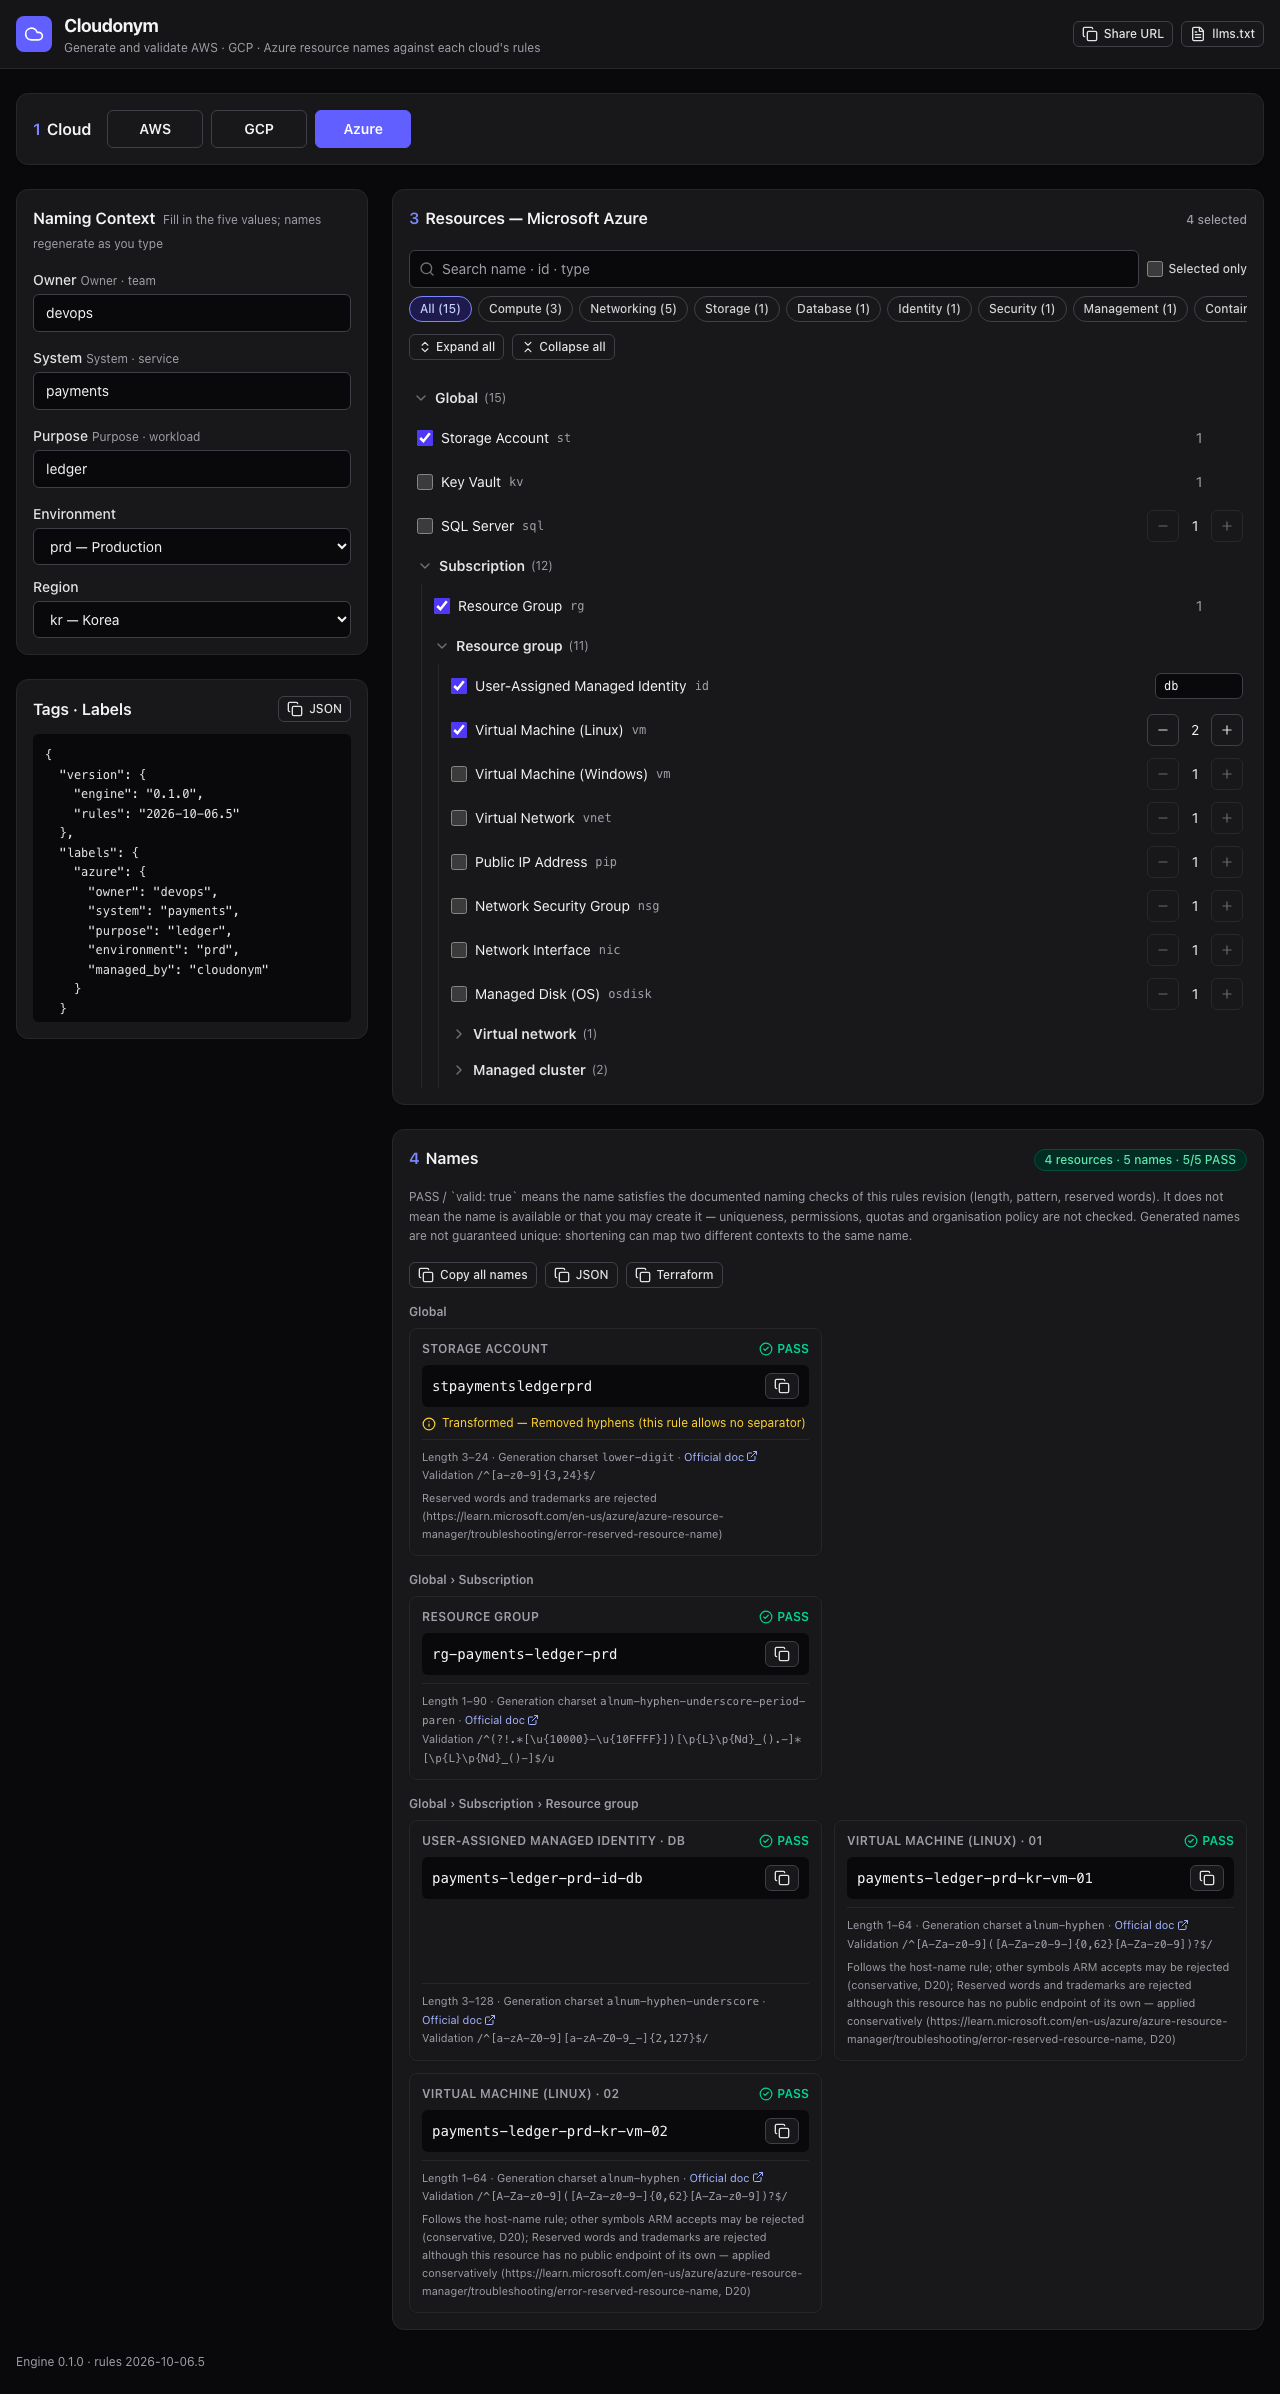
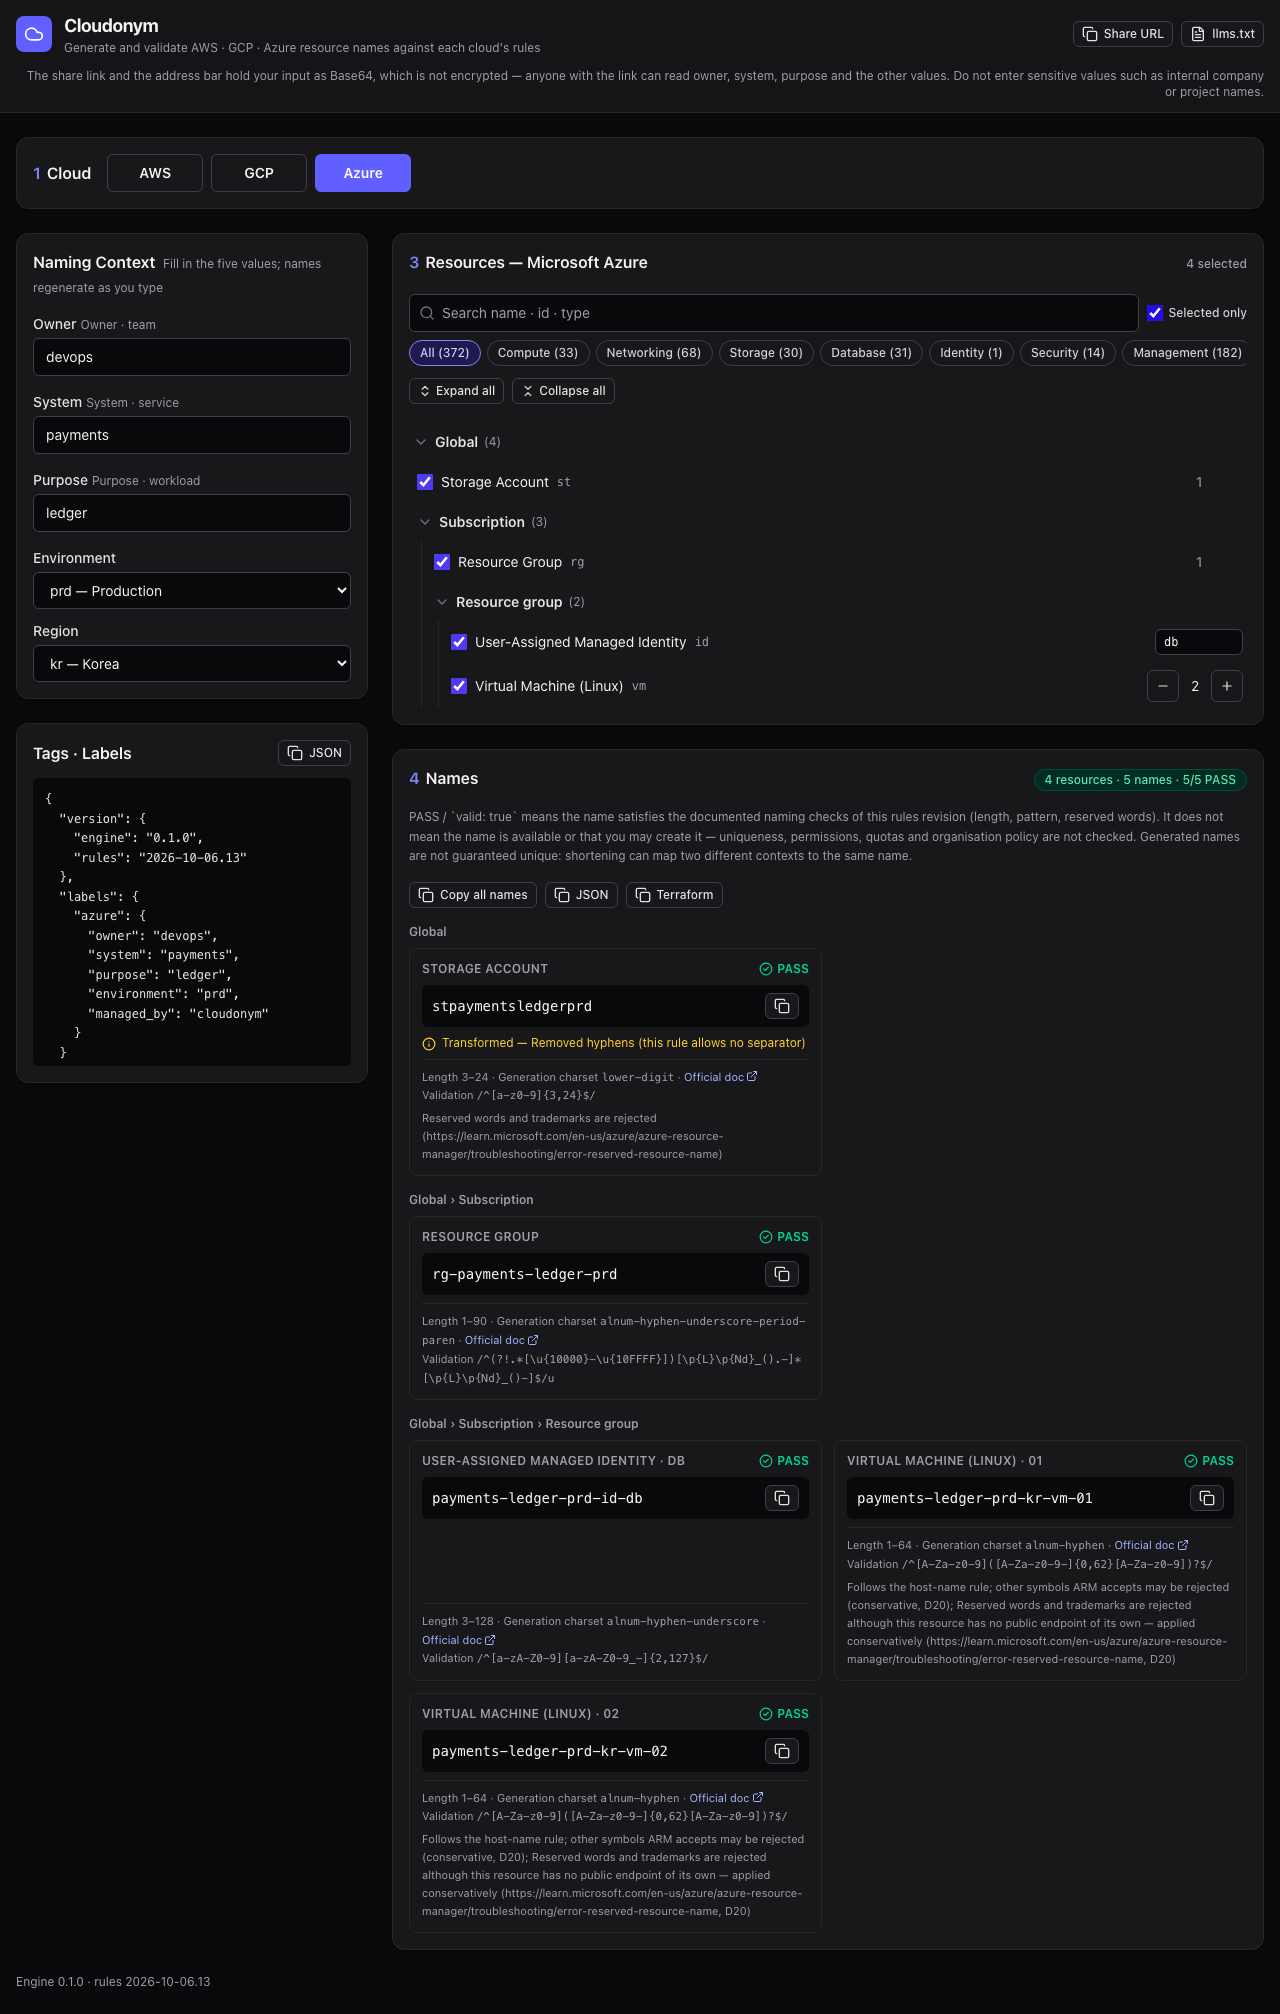
feat(ui): 공유 URL 이 입력값을 Base64(암호화 아님)로 담는다는 경고를 Share URL 옆에 보인다
- 사전 share_warning 한 문장 + share_button_label(툴팁 · 접근성 이름)에 같은 사실을 짧게 덧붙인다
- 경고는 머리말의 nav 밖 전폭 줄이라 360px 에서도 버튼 줄을 깨지 않는다
- 화면 시험이 경고 문구 · 버튼 title · aria-label 을 단언하고 360px · 다크에서도 보이는지 본다
- 스크린샷은 「선택만 보기」로 줄여 찍는다 — 펼친 트리 전체(수백 행)는 21594px 라 읽을 수 없었다

Claude-Session: https://claude.ai/code/session_013cFmk13xQuqLdriiieEhxz

diff --git a/src/messages/en.ts b/src/messages/en.ts
@@ -101,7 +101,8 @@ export const en: Catalog = {
     tagline: 'Generate and validate AWS · GCP · Azure resource names against each cloud\'s rules',
     nav_label: 'Share and docs',
     share_button: 'Share URL',
-    share_button_label: 'Copy share URL — a link holding the current input',
+    share_button_label: 'Copy share URL — a link holding the current input in readable form (Base64, not encrypted)',
+    share_warning: 'The share link and the address bar hold your input as Base64, which is not encrypted — anyone with the link can read owner, system, purpose and the other values. Do not enter sensitive values such as internal company or project names.',
     results_title: 'Generated names',
     empty_state: 'Fill in Owner · System · Purpose to generate names.',
     pass_meaning: 'PASS / `valid: true` means the name satisfies the documented naming checks of this rules revision (length, pattern, reserved words). It does not mean the name is available or that you may create it — uniqueness, permissions, quotas and organisation policy are not checked. Generated names are not guaranteed unique: shortening can map two different contexts to the same name.',

diff --git a/src/messages/en.test.ts b/src/messages/en.test.ts
@@ -115,6 +115,15 @@ describe('영어 사전 (D24)', () => {
     }
   });
 
+  it('공유 URL 경고 — Base64 는 암호화가 아니어서 링크를 받은 사람이 입력값을 읽는다고 말하고, 민감한 값을 넣지 말라고 권한다', () => {
+    expect(en.ui.share_warning).toContain('Base64');
+    expect(en.ui.share_warning).toContain('not encrypted');
+    expect(en.ui.share_warning).toMatch(/anyone with the link can read/i);
+    expect(en.ui.share_warning).toMatch(/do not enter/i);
+    // 버튼의 접근성 이름 · 툴팁도 같은 사실을 짧게 싣는다
+    expect(en.ui.share_button_label).toContain('readable');
+  });
+
   it('params 가 문장에 들어간다', () => {
     expect(format(SAMPLES['name.too_long'], en)).toBe('Name is 34 characters long; the maximum is 30');
     expect(format(SAMPLES['step.abbreviated'], en)).toContain("'AAA' to 'BBB'");

diff --git a/src/App.tsx b/src/App.tsx
@@ -157,6 +157,8 @@ function App({ rules }: { rules?: readonly ResourceRule[] }) {
             {ctx && <CopyButton text={shareUrl(ctx, window.location.origin + window.location.pathname, VERSION.rules, { provider, selection: items })} label={en.ui.share_button_label} copyKey="share-url">{en.ui.share_button}</CopyButton>}
             <a href="/llms.txt" target="_blank" rel="noreferrer" className={LINK}><FileText aria-hidden="true" className="size-4" />llms.txt</a>
           </nav>
+          {/* 공유 URL 경고 — hash 는 버튼을 누르지 않아도 주소창에 쓰이고 Base64 는 암호화가 아니다. nav 밖 전폭 줄이라 좁은 화면에서 버튼 줄을 깨지 않는다 */}
+          {ctx && <p data-share-warning className="w-full text-xs text-zinc-600 sm:text-right dark:text-zinc-400">{en.ui.share_warning}</p>}
         </div>
       </header>
 

diff --git a/src/messages/catalog.ts b/src/messages/catalog.ts
@@ -13,7 +13,7 @@ export const UI_KEYS = [
   'form_title', 'form_hint', 'field_owner_hint', 'field_system_hint', 'field_purpose_hint',
   'field_owner_placeholder', 'field_system_placeholder', 'field_purpose_placeholder', 'region_global_label',
   // App — 네 단계 (D42)
-  'tagline', 'nav_label', 'share_button', 'share_button_label', 'results_title',
+  'tagline', 'nav_label', 'share_button', 'share_button_label', 'share_warning', 'results_title',
   'empty_state', 'pass_meaning', 'version_footer', 'rules_version_mismatch',
   'step_cloud', 'step_context', 'step_resources', 'step_names', 'selection_dropped', 'switch_cloud_confirm',
   'sticky_summary', 'sticky_jump',

diff --git a/tests/ui/screen.py b/tests/ui/screen.py
@@ -156,6 +156,14 @@ def chip_count(page, cat):
     return int(page.locator(f'button[data-category="{cat}"]').inner_text().rsplit('(', 1)[1].rstrip(')'))
 
 
+def shot(pg, name, full_page=True):
+    """스크린샷 — 트리를 「선택만 보기」로 줄여 찍고 되돌린다. 펼친 트리 전체(수백 행)를 찍으면 README 에서 읽을 수 없다"""
+    pg.check('[data-selected-only]')
+    pg.evaluate('window.scrollTo(0, 0)')
+    pg.screenshot(path=str(OUT / name), full_page=full_page)
+    pg.uncheck('[data-selected-only]')
+
+
 def no_hangul(page):
     body_text = page.inner_text('body')
     assert not any('가' <= ch <= '힣' or 'ㄱ' <= ch <= 'ㆎ' for ch in body_text), body_text
@@ -186,6 +194,12 @@ with sync_playwright() as p:
     expect(page.locator('[data-pass-meaning]')).to_contain_text('Generated names are not guaranteed unique')
     expect(page.locator('[data-version]')).to_have_text(f"Engine {VERSION['engine']} · rules {RULES}")
     expect(page.locator('[data-rules-mismatch]')).to_have_count(0)
+    # 공유 URL 경고 — hash 는 Base64(암호화 아님)라 링크를 받은 사람이 입력값을 읽는다 · 버튼 툴팁 · 접근성 이름도 같은 사실
+    expect(page.locator('[data-share-warning]')).to_have_text('The share link and the address bar hold your input as Base64, which is not encrypted — anyone with the link can read owner, system, purpose and the other values. Do not enter sensitive values such as internal company or project names.')
+    expect(page.locator('[data-share-warning]')).to_be_visible()
+    share_btn_label = 'Copy share URL — a link holding the current input in readable form (Base64, not encrypted)'
+    expect(page.locator('[data-copy="share-url"]')).to_have_attribute('title', share_btn_label)
+    expect(page.locator('[data-copy="share-url"]')).to_have_attribute('aria-label', share_btn_label)
     fill_five(page, INPUT)
     page.click('[data-cloud="gcp"]')
     expect(page.locator('[data-cloud="gcp"]')).to_have_attribute('aria-checked', 'true')
@@ -258,7 +272,7 @@ with sync_playwright() as p:
     assert_selects_fit(page, 1280)
     no_hangul(page)
     page.evaluate('window.scrollTo(0, 0)')
-    page.screenshot(path=str(OUT / '01-desktop-light.png'), full_page=True)
+    shot(page, '01-desktop-light.png')
     share_url = page.url
 
     # ── ⑸ 내보내기 셋 + 태그 JSON · 이름 복사 · 공유 URL ──
@@ -413,6 +427,7 @@ with sync_playwright() as p:
     page.wait_for_timeout(300)
     assert page.evaluate('document.documentElement.scrollWidth') <= 360, page.evaluate('document.documentElement.scrollWidth')
     assert_selects_fit(page, 360)
+    expect(page.locator('[data-share-warning]')).to_be_visible()  # 좁은 화면에서도 경고가 보이고 가로 스크롤을 만들지 않는다(위 scrollWidth)
     bar = page.locator('[data-sticky-bar]')
     expect(bar).to_be_visible()
     expect(bar).to_contain_text('4 resources · 5 names')
@@ -423,7 +438,7 @@ with sync_playwright() as p:
     h = row(page, 'storage_account').evaluate('e => e.getBoundingClientRect().height')
     assert h >= 44, h
     page.evaluate('window.scrollTo(0, 0)')
-    page.screenshot(path=str(OUT / '02-mobile-360.png'), full_page=True)
+    shot(page, '02-mobile-360.png')
     page.set_viewport_size({'width': 1280, 'height': 900})
     expect(bar).to_be_hidden()  # 넓은 화면에는 고정 막대가 없다
     ctx1.close()
@@ -435,7 +450,8 @@ with sync_playwright() as p:
     expect(page4.locator(f'{VM1} [data-name]')).to_have_text('payments-ledger-prd-kr-vm-01')
     bg = page4.evaluate('getComputedStyle(document.body).backgroundColor')
     assert bg not in ('rgb(255, 255, 255)', 'rgba(0, 0, 0, 0)'), f'다크 모드 배경이 아니다: {bg}'
-    page4.screenshot(path=str(OUT / '03-desktop-dark.png'), full_page=True)
+    expect(page4.locator('[data-share-warning]')).to_be_visible()
+    shot(page4, '03-desktop-dark.png')
     dark.close()
 
     # ── ⑻ 옛 v 링크 → 안내 · 새로고침해도 안내와 옛 v 가 남는다 · Share URL 은 지금 버전 · 폼을 고치면 안내가 사라지고 v 가 지금 버전 (D27 ⑵) ──
